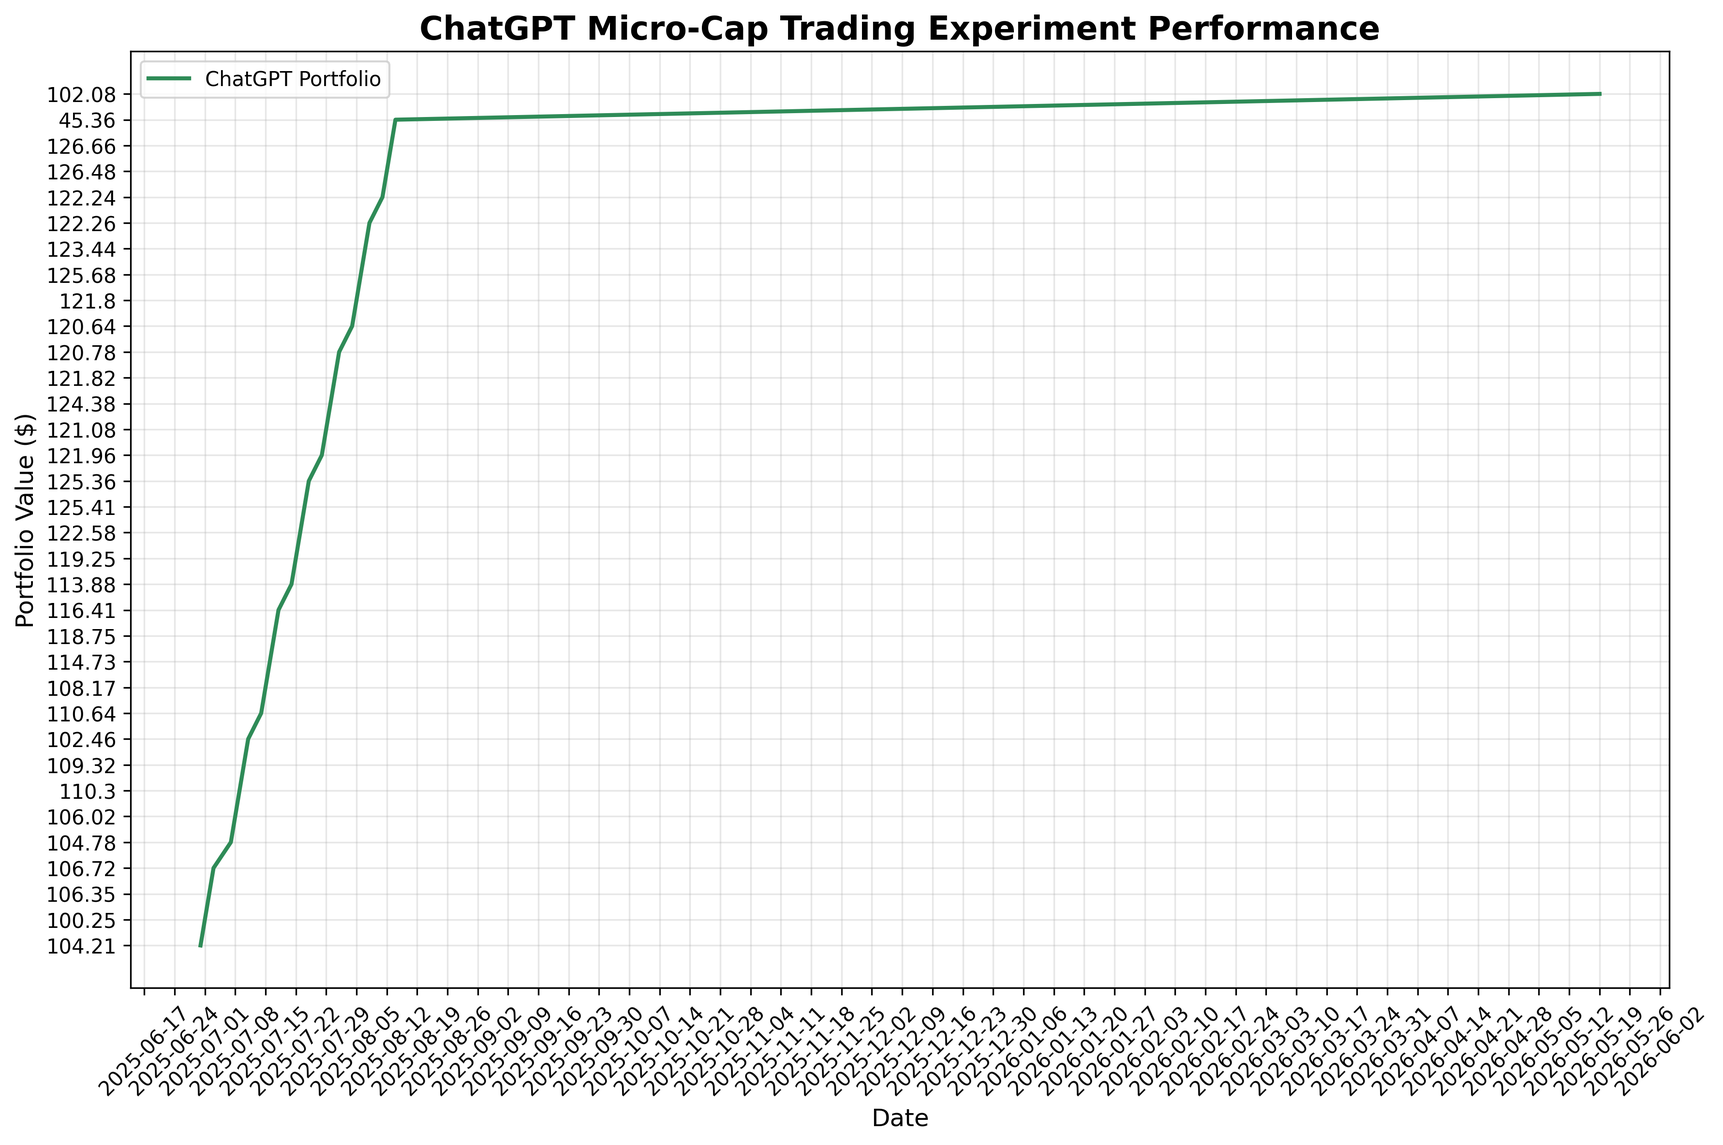
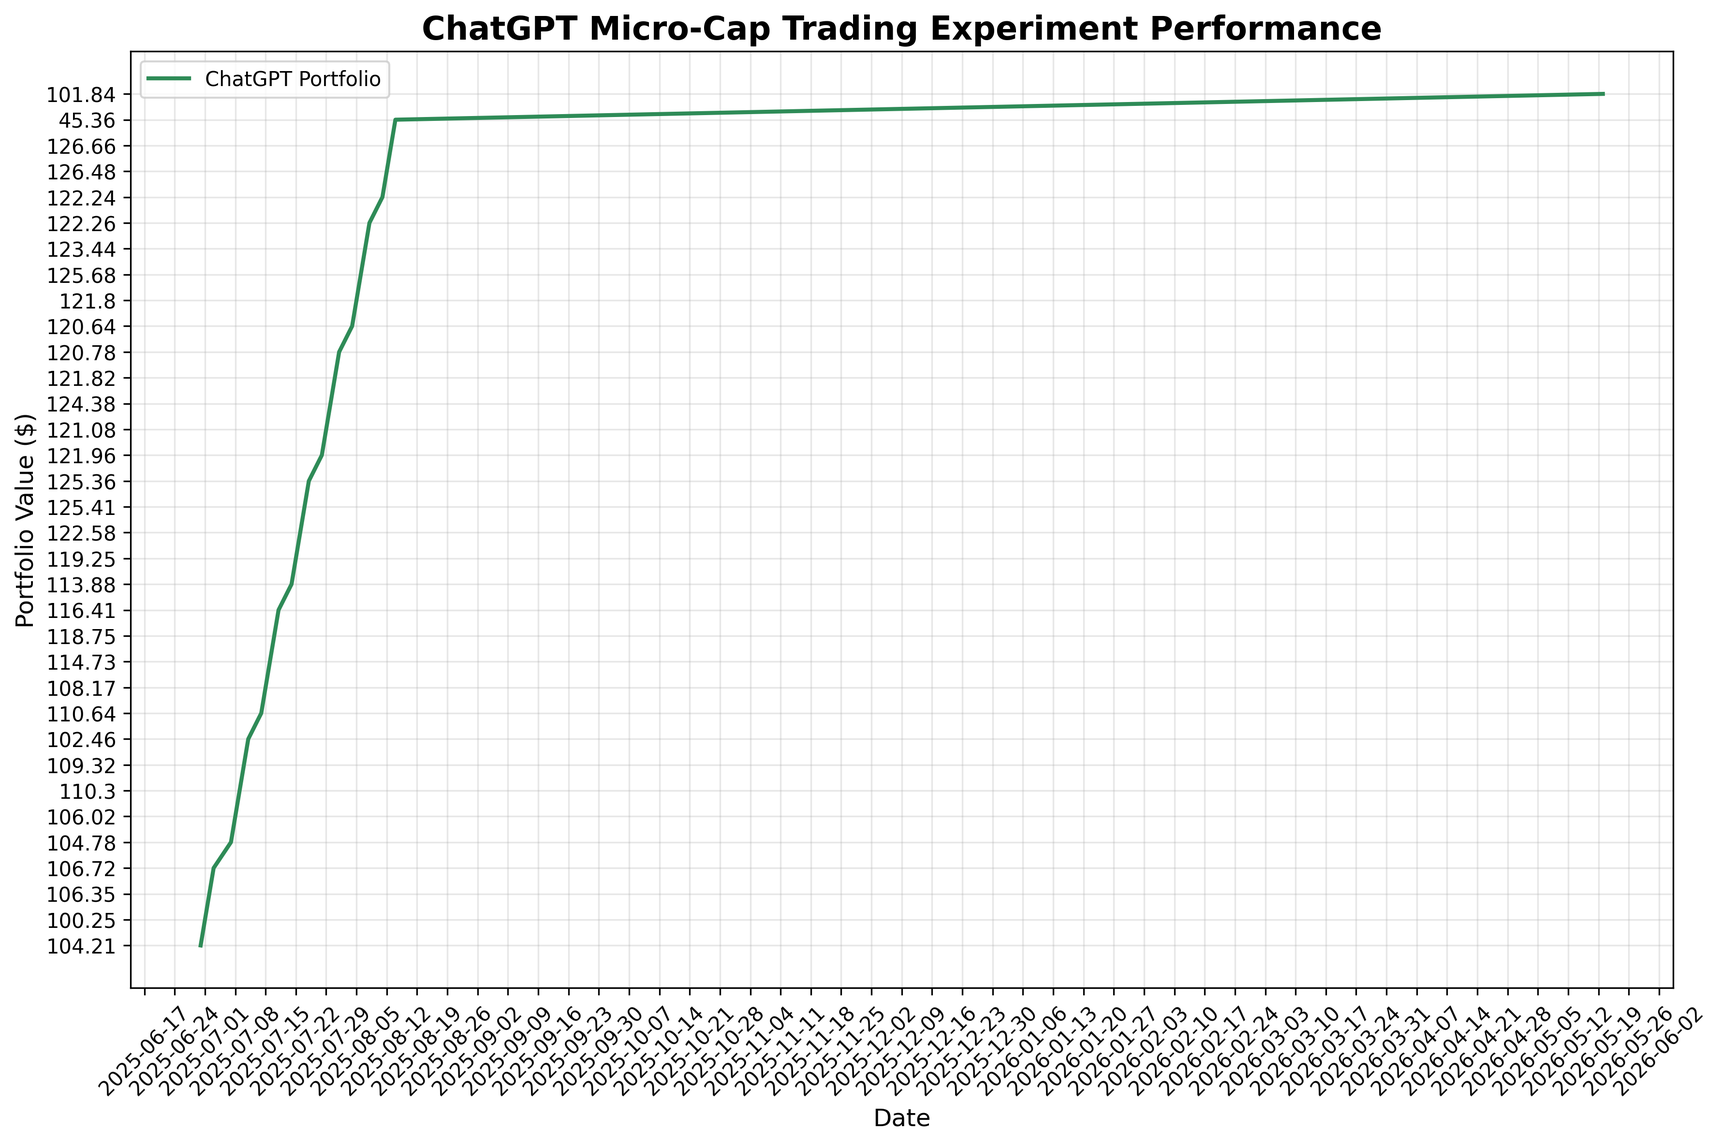
deploy: e15cad030d70fb3fbb51f9df6e22fa70c2f175c0

diff --git a/index.html b/index.html
@@ -105,7 +105,7 @@
                 <div class="stat-label">Total Trades</div>
             </div>
             <div class="stat-card">
-                <div class="stat-value" id="last-updated">2026-05-19</div>
+                <div class="stat-value" id="last-updated">2026-05-20</div>
                 <div class="stat-label">Last Updated</div>
             </div>
         </div>
@@ -160,8 +160,8 @@
     
     <script>
         // Portfolio data
-        const portfolioData = JSON.parse("[{&quot;Date&quot;: &quot;2025-08-11&quot;, &quot;Ticker&quot;: &quot;ABEO&quot;, &quot;Shares&quot;: 4.0, &quot;Buy Price&quot;: 5.77, &quot;Cost Basis&quot;: 23.08, &quot;Stop Loss&quot;: 4.9, &quot;Current Price&quot;: 6.28, &quot;Total Value&quot;: 25.12, &quot;PnL&quot;: 2.04, &quot;Action&quot;: &quot;HOLD&quot;, &quot;Cash Balance&quot;: NaN, &quot;Total Equity&quot;: NaN}, {&quot;Date&quot;: &quot;2025-08-11&quot;, &quot;Ticker&quot;: &quot;ACTU&quot;, &quot;Shares&quot;: 6.0, &quot;Buy Price&quot;: 5.75, &quot;Cost Basis&quot;: 34.5, &quot;Stop Loss&quot;: 4.89, &quot;Current Price&quot;: 8.01, &quot;Total Value&quot;: 48.06, &quot;PnL&quot;: 13.56, &quot;Action&quot;: &quot;HOLD&quot;, &quot;Cash Balance&quot;: NaN, &quot;Total Equity&quot;: NaN}, {&quot;Date&quot;: &quot;2025-08-11&quot;, &quot;Ticker&quot;: &quot;ESPR&quot;, &quot;Shares&quot;: 2.0, &quot;Buy Price&quot;: 1.91, &quot;Cost Basis&quot;: 3.82, &quot;Stop Loss&quot;: 1.6, &quot;Current Price&quot;: 1.85, &quot;Total Value&quot;: 3.7, &quot;PnL&quot;: -0.12, &quot;Action&quot;: &quot;HOLD&quot;, &quot;Cash Balance&quot;: NaN, &quot;Total Equity&quot;: NaN}, {&quot;Date&quot;: &quot;2025-08-11&quot;, &quot;Ticker&quot;: &quot;TOTAL&quot;, &quot;Shares&quot;: NaN, &quot;Buy Price&quot;: NaN, &quot;Cost Basis&quot;: NaN, &quot;Stop Loss&quot;: NaN, &quot;Current Price&quot;: NaN, &quot;Total Value&quot;: 76.88, &quot;PnL&quot;: 15.48, &quot;Action&quot;: NaN, &quot;Cash Balance&quot;: 45.36, &quot;Total Equity&quot;: &quot;122.24&quot;}, {&quot;Date&quot;: &quot;2025-08-12&quot;, &quot;Ticker&quot;: &quot;ABEO&quot;, &quot;Shares&quot;: 4.0, &quot;Buy Price&quot;: 5.77, &quot;Cost Basis&quot;: 23.08, &quot;Stop Loss&quot;: 4.9, &quot;Current Price&quot;: 6.38, &quot;Total Value&quot;: 25.52, &quot;PnL&quot;: 2.44, &quot;Action&quot;: &quot;HOLD&quot;, &quot;Cash Balance&quot;: NaN, &quot;Total Equity&quot;: NaN}, {&quot;Date&quot;: &quot;2025-08-12&quot;, &quot;Ticker&quot;: &quot;ACTU&quot;, &quot;Shares&quot;: 6.0, &quot;Buy Price&quot;: 5.75, &quot;Cost Basis&quot;: 34.5, &quot;Stop Loss&quot;: 4.89, &quot;Current Price&quot;: 8.67, &quot;Total Value&quot;: 52.02, &quot;PnL&quot;: 17.52, &quot;Action&quot;: &quot;HOLD&quot;, &quot;Cash Balance&quot;: NaN, &quot;Total Equity&quot;: NaN}, {&quot;Date&quot;: &quot;2025-08-12&quot;, &quot;Ticker&quot;: &quot;ESPR&quot;, &quot;Shares&quot;: 2.0, &quot;Buy Price&quot;: 1.91, &quot;Cost Basis&quot;: 3.82, &quot;Stop Loss&quot;: 1.6, &quot;Current Price&quot;: 1.79, &quot;Total Value&quot;: 3.58, &quot;PnL&quot;: -0.24, &quot;Action&quot;: &quot;HOLD&quot;, &quot;Cash Balance&quot;: NaN, &quot;Total Equity&quot;: NaN}, {&quot;Date&quot;: &quot;2025-08-12&quot;, &quot;Ticker&quot;: &quot;TOTAL&quot;, &quot;Shares&quot;: NaN, &quot;Buy Price&quot;: NaN, &quot;Cost Basis&quot;: NaN, &quot;Stop Loss&quot;: NaN, &quot;Current Price&quot;: NaN, &quot;Total Value&quot;: 81.12, &quot;PnL&quot;: 19.72, &quot;Action&quot;: NaN, &quot;Cash Balance&quot;: 45.36, &quot;Total Equity&quot;: &quot;126.48&quot;}, {&quot;Date&quot;: &quot;2025-08-13&quot;, &quot;Ticker&quot;: &quot;ABEO&quot;, &quot;Shares&quot;: 4.0, &quot;Buy Price&quot;: 5.77, &quot;Cost Basis&quot;: 23.08, &quot;Stop Loss&quot;: 4.9, &quot;Current Price&quot;: 6.56, &quot;Total Value&quot;: 26.24, &quot;PnL&quot;: 3.16, &quot;Action&quot;: &quot;HOLD&quot;, &quot;Cash Balance&quot;: NaN, &quot;Total Equity&quot;: NaN}, {&quot;Date&quot;: &quot;2025-08-13&quot;, &quot;Ticker&quot;: &quot;ACTU&quot;, &quot;Shares&quot;: 6.0, &quot;Buy Price&quot;: 5.75, &quot;Cost Basis&quot;: 34.5, &quot;Stop Loss&quot;: 4.89, &quot;Current Price&quot;: 8.53, &quot;Total Value&quot;: 51.18, &quot;PnL&quot;: 16.68, &quot;Action&quot;: &quot;HOLD&quot;, &quot;Cash Balance&quot;: NaN, &quot;Total Equity&quot;: NaN}, {&quot;Date&quot;: &quot;2025-08-13&quot;, &quot;Ticker&quot;: &quot;ESPR&quot;, &quot;Shares&quot;: 2.0, &quot;Buy Price&quot;: 1.91, &quot;Cost Basis&quot;: 3.82, &quot;Stop Loss&quot;: 1.6, &quot;Current Price&quot;: 1.94, &quot;Total Value&quot;: 3.88, &quot;PnL&quot;: 0.06, &quot;Action&quot;: &quot;HOLD&quot;, &quot;Cash Balance&quot;: NaN, &quot;Total Equity&quot;: NaN}, {&quot;Date&quot;: &quot;2025-08-13&quot;, &quot;Ticker&quot;: &quot;TOTAL&quot;, &quot;Shares&quot;: NaN, &quot;Buy Price&quot;: NaN, &quot;Cost Basis&quot;: NaN, &quot;Stop Loss&quot;: NaN, &quot;Current Price&quot;: NaN, &quot;Total Value&quot;: 81.3, &quot;PnL&quot;: 19.9, &quot;Action&quot;: NaN, &quot;Cash Balance&quot;: 45.36, &quot;Total Equity&quot;: &quot;126.66&quot;}, {&quot;Date&quot;: &quot;2025-08-14&quot;, &quot;Ticker&quot;: &quot;ABEO&quot;, &quot;Shares&quot;: 4.0, &quot;Buy Price&quot;: 5.77, &quot;Cost Basis&quot;: 23.08, &quot;Stop Loss&quot;: 4.9, &quot;Current Price&quot;: NaN, &quot;Total Value&quot;: NaN, &quot;PnL&quot;: NaN, &quot;Action&quot;: &quot;NO DATA&quot;, &quot;Cash Balance&quot;: NaN, &quot;Total Equity&quot;: NaN}, {&quot;Date&quot;: &quot;2025-08-14&quot;, &quot;Ticker&quot;: &quot;ACTU&quot;, &quot;Shares&quot;: 6.0, &quot;Buy Price&quot;: 5.75, &quot;Cost Basis&quot;: 34.5, &quot;Stop Loss&quot;: 4.89, &quot;Current Price&quot;: NaN, &quot;Total Value&quot;: NaN, &quot;PnL&quot;: NaN, &quot;Action&quot;: &quot;NO DATA&quot;, &quot;Cash Balance&quot;: NaN, &quot;Total Equity&quot;: NaN}, {&quot;Date&quot;: &quot;2025-08-14&quot;, &quot;Ticker&quot;: &quot;ESPR&quot;, &quot;Shares&quot;: 2.0, &quot;Buy Price&quot;: 1.91, &quot;Cost Basis&quot;: 3.82, &quot;Stop Loss&quot;: 1.6, &quot;Current Price&quot;: NaN, &quot;Total Value&quot;: NaN, &quot;PnL&quot;: NaN, &quot;Action&quot;: &quot;NO DATA&quot;, &quot;Cash Balance&quot;: NaN, &quot;Total Equity&quot;: NaN}, {&quot;Date&quot;: &quot;2025-08-14&quot;, &quot;Ticker&quot;: &quot;TOTAL&quot;, &quot;Shares&quot;: NaN, &quot;Buy Price&quot;: NaN, &quot;Cost Basis&quot;: NaN, &quot;Stop Loss&quot;: NaN, &quot;Current Price&quot;: NaN, &quot;Total Value&quot;: 0.0, &quot;PnL&quot;: 0.0, &quot;Action&quot;: NaN, &quot;Cash Balance&quot;: 45.36, &quot;Total Equity&quot;: &quot;45.36&quot;}, {&quot;Date&quot;: &quot;2026-05-19&quot;, &quot;Ticker&quot;: &quot;ABEO&quot;, &quot;Shares&quot;: 4.0, &quot;Buy Price&quot;: 5.77, &quot;Cost Basis&quot;: 23.08, &quot;Stop Loss&quot;: 4.9, &quot;Current Price&quot;: 5.28, &quot;Total Value&quot;: 21.12, &quot;PnL&quot;: -1.96, &quot;Action&quot;: &quot;HOLD&quot;, &quot;Cash Balance&quot;: NaN, &quot;Total Equity&quot;: NaN}, {&quot;Date&quot;: &quot;2026-05-19&quot;, &quot;Ticker&quot;: &quot;ACTU&quot;, &quot;Shares&quot;: 6.0, &quot;Buy Price&quot;: 5.75, &quot;Cost Basis&quot;: 34.5, &quot;Stop Loss&quot;: 4.89, &quot;Current Price&quot;: 4.89, &quot;Total Value&quot;: 29.34, &quot;PnL&quot;: -5.16, &quot;Action&quot;: &quot;SELL - Stop Loss Triggered&quot;, &quot;Cash Balance&quot;: NaN, &quot;Total Equity&quot;: NaN}, {&quot;Date&quot;: &quot;2026-05-19&quot;, &quot;Ticker&quot;: &quot;ESPR&quot;, &quot;Shares&quot;: 2.0, &quot;Buy Price&quot;: 1.91, &quot;Cost Basis&quot;: 3.82, &quot;Stop Loss&quot;: 1.6, &quot;Current Price&quot;: 3.13, &quot;Total Value&quot;: 6.26, &quot;PnL&quot;: 2.44, &quot;Action&quot;: &quot;HOLD&quot;, &quot;Cash Balance&quot;: NaN, &quot;Total Equity&quot;: NaN}, {&quot;Date&quot;: &quot;2026-05-19&quot;, &quot;Ticker&quot;: &quot;TOTAL&quot;, &quot;Shares&quot;: NaN, &quot;Buy Price&quot;: NaN, &quot;Cost Basis&quot;: NaN, &quot;Stop Loss&quot;: NaN, &quot;Current Price&quot;: NaN, &quot;Total Value&quot;: 27.38, &quot;PnL&quot;: 0.48, &quot;Action&quot;: NaN, &quot;Cash Balance&quot;: 74.7, &quot;Total Equity&quot;: &quot;102.08&quot;}]");
-        const tradeData = JSON.parse("[{&quot;Date&quot;: &quot;2025-07-08&quot;, &quot;Ticker&quot;: &quot;IINN&quot;, &quot;Shares Bought&quot;: 20.0, &quot;Buy Price&quot;: 1.5, &quot;Cost Basis&quot;: 30.0, &quot;PnL&quot;: 0.0, &quot;Reason&quot;: &quot;MANUAL BUY - New position&quot;, &quot;Shares Sold&quot;: NaN, &quot;Sell Price&quot;: NaN}, {&quot;Date&quot;: &quot;2025-07-21&quot;, &quot;Ticker&quot;: &quot;CADL&quot;, &quot;Shares Bought&quot;: NaN, &quot;Buy Price&quot;: NaN, &quot;Cost Basis&quot;: 25.2, &quot;PnL&quot;: 8.5, &quot;Reason&quot;: &quot;MANUAL SELL - GAIN CAPITAL FOR ACTU&quot;, &quot;Shares Sold&quot;: 5.0, &quot;Sell Price&quot;: 6.59}, {&quot;Date&quot;: &quot;2025-07-21&quot;, &quot;Ticker&quot;: &quot;ACTU&quot;, &quot;Shares Bought&quot;: 6.0, &quot;Buy Price&quot;: 5.75, &quot;Cost Basis&quot;: 34.5, &quot;PnL&quot;: 0.0, &quot;Reason&quot;: &quot;MANUAL BUY - New position&quot;, &quot;Shares Sold&quot;: NaN, &quot;Sell Price&quot;: NaN}, {&quot;Date&quot;: &quot;2025-07-28&quot;, &quot;Ticker&quot;: &quot;IINN&quot;, &quot;Shares Bought&quot;: NaN, &quot;Buy Price&quot;: NaN, &quot;Cost Basis&quot;: 9.0, &quot;PnL&quot;: -0.5400000000000009, &quot;Reason&quot;: &quot;MANUAL SELL - POSITION REDUCTION&quot;, &quot;Shares Sold&quot;: 6.0, &quot;Sell Price&quot;: 1.41}, {&quot;Date&quot;: &quot;2025-07-29&quot;, &quot;Ticker&quot;: &quot;AZTR&quot;, &quot;Shares Bought&quot;: NaN, &quot;Buy Price&quot;: NaN, &quot;Cost Basis&quot;: 13.75, &quot;PnL&quot;: -2.75, &quot;Reason&quot;: &quot;MANUAL SELL - DILUTION RISK&quot;, &quot;Shares Sold&quot;: 55.0, &quot;Sell Price&quot;: 0.2}, {&quot;Date&quot;: &quot;2025-08-01&quot;, &quot;Ticker&quot;: &quot;IINN&quot;, &quot;Shares Bought&quot;: 2.0, &quot;Buy Price&quot;: 1.74, &quot;Cost Basis&quot;: 3.48, &quot;PnL&quot;: 0.0, &quot;Reason&quot;: &quot;MANUAL BUY - New position&quot;, &quot;Shares Sold&quot;: NaN, &quot;Sell Price&quot;: NaN}, {&quot;Date&quot;: &quot;2025-08-01&quot;, &quot;Ticker&quot;: &quot;ABEO&quot;, &quot;Shares Bought&quot;: NaN, &quot;Buy Price&quot;: NaN, &quot;Cost Basis&quot;: 11.54, &quot;PnL&quot;: 1.200000000000001, &quot;Reason&quot;: &quot;MANUAL SELL - TRIM AFTER SUPPORT LOSS&quot;, &quot;Shares Sold&quot;: 2.0, &quot;Sell Price&quot;: 6.37}, {&quot;Date&quot;: &quot;2025-08-07&quot;, &quot;Ticker&quot;: &quot;ESPR&quot;, &quot;Shares Bought&quot;: 2.0, &quot;Buy Price&quot;: 1.91, &quot;Cost Basis&quot;: 3.82, &quot;PnL&quot;: 0.0, &quot;Reason&quot;: &quot;MANUAL BUY - New position&quot;, &quot;Shares Sold&quot;: NaN, &quot;Sell Price&quot;: NaN}, {&quot;Date&quot;: &quot;2025-08-08&quot;, &quot;Ticker&quot;: &quot;IINN&quot;, &quot;Shares Bought&quot;: NaN, &quot;Buy Price&quot;: NaN, &quot;Cost Basis&quot;: 1.5, &quot;PnL&quot;: -6.4, &quot;Reason&quot;: &quot;AUTOMATED SELL - STOPLOSS TRIGGERED&quot;, &quot;Shares Sold&quot;: 16.0, &quot;Sell Price&quot;: 1.1}, {&quot;Date&quot;: &quot;2026-05-19&quot;, &quot;Ticker&quot;: &quot;ACTU&quot;, &quot;Shares Bought&quot;: NaN, &quot;Buy Price&quot;: NaN, &quot;Cost Basis&quot;: 5.75, &quot;PnL&quot;: -5.16, &quot;Reason&quot;: &quot;AUTOMATED SELL - STOPLOSS TRIGGERED&quot;, &quot;Shares Sold&quot;: 6.0, &quot;Sell Price&quot;: 4.89}]");
+        const portfolioData = JSON.parse("[{&quot;Date&quot;: &quot;2025-08-11&quot;, &quot;Ticker&quot;: &quot;ABEO&quot;, &quot;Shares&quot;: 4.0, &quot;Buy Price&quot;: 5.77, &quot;Cost Basis&quot;: 23.08, &quot;Stop Loss&quot;: 4.9, &quot;Current Price&quot;: 6.28, &quot;Total Value&quot;: 25.12, &quot;PnL&quot;: 2.04, &quot;Action&quot;: &quot;HOLD&quot;, &quot;Cash Balance&quot;: NaN, &quot;Total Equity&quot;: NaN}, {&quot;Date&quot;: &quot;2025-08-11&quot;, &quot;Ticker&quot;: &quot;ACTU&quot;, &quot;Shares&quot;: 6.0, &quot;Buy Price&quot;: 5.75, &quot;Cost Basis&quot;: 34.5, &quot;Stop Loss&quot;: 4.89, &quot;Current Price&quot;: 8.01, &quot;Total Value&quot;: 48.06, &quot;PnL&quot;: 13.56, &quot;Action&quot;: &quot;HOLD&quot;, &quot;Cash Balance&quot;: NaN, &quot;Total Equity&quot;: NaN}, {&quot;Date&quot;: &quot;2025-08-11&quot;, &quot;Ticker&quot;: &quot;ESPR&quot;, &quot;Shares&quot;: 2.0, &quot;Buy Price&quot;: 1.91, &quot;Cost Basis&quot;: 3.82, &quot;Stop Loss&quot;: 1.6, &quot;Current Price&quot;: 1.85, &quot;Total Value&quot;: 3.7, &quot;PnL&quot;: -0.12, &quot;Action&quot;: &quot;HOLD&quot;, &quot;Cash Balance&quot;: NaN, &quot;Total Equity&quot;: NaN}, {&quot;Date&quot;: &quot;2025-08-11&quot;, &quot;Ticker&quot;: &quot;TOTAL&quot;, &quot;Shares&quot;: NaN, &quot;Buy Price&quot;: NaN, &quot;Cost Basis&quot;: NaN, &quot;Stop Loss&quot;: NaN, &quot;Current Price&quot;: NaN, &quot;Total Value&quot;: 76.88, &quot;PnL&quot;: 15.48, &quot;Action&quot;: NaN, &quot;Cash Balance&quot;: 45.36, &quot;Total Equity&quot;: &quot;122.24&quot;}, {&quot;Date&quot;: &quot;2025-08-12&quot;, &quot;Ticker&quot;: &quot;ABEO&quot;, &quot;Shares&quot;: 4.0, &quot;Buy Price&quot;: 5.77, &quot;Cost Basis&quot;: 23.08, &quot;Stop Loss&quot;: 4.9, &quot;Current Price&quot;: 6.38, &quot;Total Value&quot;: 25.52, &quot;PnL&quot;: 2.44, &quot;Action&quot;: &quot;HOLD&quot;, &quot;Cash Balance&quot;: NaN, &quot;Total Equity&quot;: NaN}, {&quot;Date&quot;: &quot;2025-08-12&quot;, &quot;Ticker&quot;: &quot;ACTU&quot;, &quot;Shares&quot;: 6.0, &quot;Buy Price&quot;: 5.75, &quot;Cost Basis&quot;: 34.5, &quot;Stop Loss&quot;: 4.89, &quot;Current Price&quot;: 8.67, &quot;Total Value&quot;: 52.02, &quot;PnL&quot;: 17.52, &quot;Action&quot;: &quot;HOLD&quot;, &quot;Cash Balance&quot;: NaN, &quot;Total Equity&quot;: NaN}, {&quot;Date&quot;: &quot;2025-08-12&quot;, &quot;Ticker&quot;: &quot;ESPR&quot;, &quot;Shares&quot;: 2.0, &quot;Buy Price&quot;: 1.91, &quot;Cost Basis&quot;: 3.82, &quot;Stop Loss&quot;: 1.6, &quot;Current Price&quot;: 1.79, &quot;Total Value&quot;: 3.58, &quot;PnL&quot;: -0.24, &quot;Action&quot;: &quot;HOLD&quot;, &quot;Cash Balance&quot;: NaN, &quot;Total Equity&quot;: NaN}, {&quot;Date&quot;: &quot;2025-08-12&quot;, &quot;Ticker&quot;: &quot;TOTAL&quot;, &quot;Shares&quot;: NaN, &quot;Buy Price&quot;: NaN, &quot;Cost Basis&quot;: NaN, &quot;Stop Loss&quot;: NaN, &quot;Current Price&quot;: NaN, &quot;Total Value&quot;: 81.12, &quot;PnL&quot;: 19.72, &quot;Action&quot;: NaN, &quot;Cash Balance&quot;: 45.36, &quot;Total Equity&quot;: &quot;126.48&quot;}, {&quot;Date&quot;: &quot;2025-08-13&quot;, &quot;Ticker&quot;: &quot;ABEO&quot;, &quot;Shares&quot;: 4.0, &quot;Buy Price&quot;: 5.77, &quot;Cost Basis&quot;: 23.08, &quot;Stop Loss&quot;: 4.9, &quot;Current Price&quot;: 6.56, &quot;Total Value&quot;: 26.24, &quot;PnL&quot;: 3.16, &quot;Action&quot;: &quot;HOLD&quot;, &quot;Cash Balance&quot;: NaN, &quot;Total Equity&quot;: NaN}, {&quot;Date&quot;: &quot;2025-08-13&quot;, &quot;Ticker&quot;: &quot;ACTU&quot;, &quot;Shares&quot;: 6.0, &quot;Buy Price&quot;: 5.75, &quot;Cost Basis&quot;: 34.5, &quot;Stop Loss&quot;: 4.89, &quot;Current Price&quot;: 8.53, &quot;Total Value&quot;: 51.18, &quot;PnL&quot;: 16.68, &quot;Action&quot;: &quot;HOLD&quot;, &quot;Cash Balance&quot;: NaN, &quot;Total Equity&quot;: NaN}, {&quot;Date&quot;: &quot;2025-08-13&quot;, &quot;Ticker&quot;: &quot;ESPR&quot;, &quot;Shares&quot;: 2.0, &quot;Buy Price&quot;: 1.91, &quot;Cost Basis&quot;: 3.82, &quot;Stop Loss&quot;: 1.6, &quot;Current Price&quot;: 1.94, &quot;Total Value&quot;: 3.88, &quot;PnL&quot;: 0.06, &quot;Action&quot;: &quot;HOLD&quot;, &quot;Cash Balance&quot;: NaN, &quot;Total Equity&quot;: NaN}, {&quot;Date&quot;: &quot;2025-08-13&quot;, &quot;Ticker&quot;: &quot;TOTAL&quot;, &quot;Shares&quot;: NaN, &quot;Buy Price&quot;: NaN, &quot;Cost Basis&quot;: NaN, &quot;Stop Loss&quot;: NaN, &quot;Current Price&quot;: NaN, &quot;Total Value&quot;: 81.3, &quot;PnL&quot;: 19.9, &quot;Action&quot;: NaN, &quot;Cash Balance&quot;: 45.36, &quot;Total Equity&quot;: &quot;126.66&quot;}, {&quot;Date&quot;: &quot;2025-08-14&quot;, &quot;Ticker&quot;: &quot;ABEO&quot;, &quot;Shares&quot;: 4.0, &quot;Buy Price&quot;: 5.77, &quot;Cost Basis&quot;: 23.08, &quot;Stop Loss&quot;: 4.9, &quot;Current Price&quot;: NaN, &quot;Total Value&quot;: NaN, &quot;PnL&quot;: NaN, &quot;Action&quot;: &quot;NO DATA&quot;, &quot;Cash Balance&quot;: NaN, &quot;Total Equity&quot;: NaN}, {&quot;Date&quot;: &quot;2025-08-14&quot;, &quot;Ticker&quot;: &quot;ACTU&quot;, &quot;Shares&quot;: 6.0, &quot;Buy Price&quot;: 5.75, &quot;Cost Basis&quot;: 34.5, &quot;Stop Loss&quot;: 4.89, &quot;Current Price&quot;: NaN, &quot;Total Value&quot;: NaN, &quot;PnL&quot;: NaN, &quot;Action&quot;: &quot;NO DATA&quot;, &quot;Cash Balance&quot;: NaN, &quot;Total Equity&quot;: NaN}, {&quot;Date&quot;: &quot;2025-08-14&quot;, &quot;Ticker&quot;: &quot;ESPR&quot;, &quot;Shares&quot;: 2.0, &quot;Buy Price&quot;: 1.91, &quot;Cost Basis&quot;: 3.82, &quot;Stop Loss&quot;: 1.6, &quot;Current Price&quot;: NaN, &quot;Total Value&quot;: NaN, &quot;PnL&quot;: NaN, &quot;Action&quot;: &quot;NO DATA&quot;, &quot;Cash Balance&quot;: NaN, &quot;Total Equity&quot;: NaN}, {&quot;Date&quot;: &quot;2025-08-14&quot;, &quot;Ticker&quot;: &quot;TOTAL&quot;, &quot;Shares&quot;: NaN, &quot;Buy Price&quot;: NaN, &quot;Cost Basis&quot;: NaN, &quot;Stop Loss&quot;: NaN, &quot;Current Price&quot;: NaN, &quot;Total Value&quot;: 0.0, &quot;PnL&quot;: 0.0, &quot;Action&quot;: NaN, &quot;Cash Balance&quot;: 45.36, &quot;Total Equity&quot;: &quot;45.36&quot;}, {&quot;Date&quot;: &quot;2026-05-20&quot;, &quot;Ticker&quot;: &quot;ABEO&quot;, &quot;Shares&quot;: 4.0, &quot;Buy Price&quot;: 5.77, &quot;Cost Basis&quot;: 23.08, &quot;Stop Loss&quot;: 4.9, &quot;Current Price&quot;: 5.22, &quot;Total Value&quot;: 20.88, &quot;PnL&quot;: -2.2, &quot;Action&quot;: &quot;HOLD&quot;, &quot;Cash Balance&quot;: NaN, &quot;Total Equity&quot;: NaN}, {&quot;Date&quot;: &quot;2026-05-20&quot;, &quot;Ticker&quot;: &quot;ACTU&quot;, &quot;Shares&quot;: 6.0, &quot;Buy Price&quot;: 5.75, &quot;Cost Basis&quot;: 34.5, &quot;Stop Loss&quot;: 4.89, &quot;Current Price&quot;: 4.89, &quot;Total Value&quot;: 29.34, &quot;PnL&quot;: -5.16, &quot;Action&quot;: &quot;SELL - Stop Loss Triggered&quot;, &quot;Cash Balance&quot;: NaN, &quot;Total Equity&quot;: NaN}, {&quot;Date&quot;: &quot;2026-05-20&quot;, &quot;Ticker&quot;: &quot;ESPR&quot;, &quot;Shares&quot;: 2.0, &quot;Buy Price&quot;: 1.91, &quot;Cost Basis&quot;: 3.82, &quot;Stop Loss&quot;: 1.6, &quot;Current Price&quot;: 3.13, &quot;Total Value&quot;: 6.26, &quot;PnL&quot;: 2.44, &quot;Action&quot;: &quot;HOLD&quot;, &quot;Cash Balance&quot;: NaN, &quot;Total Equity&quot;: NaN}, {&quot;Date&quot;: &quot;2026-05-20&quot;, &quot;Ticker&quot;: &quot;TOTAL&quot;, &quot;Shares&quot;: NaN, &quot;Buy Price&quot;: NaN, &quot;Cost Basis&quot;: NaN, &quot;Stop Loss&quot;: NaN, &quot;Current Price&quot;: NaN, &quot;Total Value&quot;: 27.14, &quot;PnL&quot;: 0.24, &quot;Action&quot;: NaN, &quot;Cash Balance&quot;: 74.7, &quot;Total Equity&quot;: &quot;101.84&quot;}]");
+        const tradeData = JSON.parse("[{&quot;Date&quot;: &quot;2025-07-08&quot;, &quot;Ticker&quot;: &quot;IINN&quot;, &quot;Shares Bought&quot;: 20.0, &quot;Buy Price&quot;: 1.5, &quot;Cost Basis&quot;: 30.0, &quot;PnL&quot;: 0.0, &quot;Reason&quot;: &quot;MANUAL BUY - New position&quot;, &quot;Shares Sold&quot;: NaN, &quot;Sell Price&quot;: NaN}, {&quot;Date&quot;: &quot;2025-07-21&quot;, &quot;Ticker&quot;: &quot;CADL&quot;, &quot;Shares Bought&quot;: NaN, &quot;Buy Price&quot;: NaN, &quot;Cost Basis&quot;: 25.2, &quot;PnL&quot;: 8.5, &quot;Reason&quot;: &quot;MANUAL SELL - GAIN CAPITAL FOR ACTU&quot;, &quot;Shares Sold&quot;: 5.0, &quot;Sell Price&quot;: 6.59}, {&quot;Date&quot;: &quot;2025-07-21&quot;, &quot;Ticker&quot;: &quot;ACTU&quot;, &quot;Shares Bought&quot;: 6.0, &quot;Buy Price&quot;: 5.75, &quot;Cost Basis&quot;: 34.5, &quot;PnL&quot;: 0.0, &quot;Reason&quot;: &quot;MANUAL BUY - New position&quot;, &quot;Shares Sold&quot;: NaN, &quot;Sell Price&quot;: NaN}, {&quot;Date&quot;: &quot;2025-07-28&quot;, &quot;Ticker&quot;: &quot;IINN&quot;, &quot;Shares Bought&quot;: NaN, &quot;Buy Price&quot;: NaN, &quot;Cost Basis&quot;: 9.0, &quot;PnL&quot;: -0.5400000000000009, &quot;Reason&quot;: &quot;MANUAL SELL - POSITION REDUCTION&quot;, &quot;Shares Sold&quot;: 6.0, &quot;Sell Price&quot;: 1.41}, {&quot;Date&quot;: &quot;2025-07-29&quot;, &quot;Ticker&quot;: &quot;AZTR&quot;, &quot;Shares Bought&quot;: NaN, &quot;Buy Price&quot;: NaN, &quot;Cost Basis&quot;: 13.75, &quot;PnL&quot;: -2.75, &quot;Reason&quot;: &quot;MANUAL SELL - DILUTION RISK&quot;, &quot;Shares Sold&quot;: 55.0, &quot;Sell Price&quot;: 0.2}, {&quot;Date&quot;: &quot;2025-08-01&quot;, &quot;Ticker&quot;: &quot;IINN&quot;, &quot;Shares Bought&quot;: 2.0, &quot;Buy Price&quot;: 1.74, &quot;Cost Basis&quot;: 3.48, &quot;PnL&quot;: 0.0, &quot;Reason&quot;: &quot;MANUAL BUY - New position&quot;, &quot;Shares Sold&quot;: NaN, &quot;Sell Price&quot;: NaN}, {&quot;Date&quot;: &quot;2025-08-01&quot;, &quot;Ticker&quot;: &quot;ABEO&quot;, &quot;Shares Bought&quot;: NaN, &quot;Buy Price&quot;: NaN, &quot;Cost Basis&quot;: 11.54, &quot;PnL&quot;: 1.200000000000001, &quot;Reason&quot;: &quot;MANUAL SELL - TRIM AFTER SUPPORT LOSS&quot;, &quot;Shares Sold&quot;: 2.0, &quot;Sell Price&quot;: 6.37}, {&quot;Date&quot;: &quot;2025-08-07&quot;, &quot;Ticker&quot;: &quot;ESPR&quot;, &quot;Shares Bought&quot;: 2.0, &quot;Buy Price&quot;: 1.91, &quot;Cost Basis&quot;: 3.82, &quot;PnL&quot;: 0.0, &quot;Reason&quot;: &quot;MANUAL BUY - New position&quot;, &quot;Shares Sold&quot;: NaN, &quot;Sell Price&quot;: NaN}, {&quot;Date&quot;: &quot;2025-08-08&quot;, &quot;Ticker&quot;: &quot;IINN&quot;, &quot;Shares Bought&quot;: NaN, &quot;Buy Price&quot;: NaN, &quot;Cost Basis&quot;: 1.5, &quot;PnL&quot;: -6.4, &quot;Reason&quot;: &quot;AUTOMATED SELL - STOPLOSS TRIGGERED&quot;, &quot;Shares Sold&quot;: 16.0, &quot;Sell Price&quot;: 1.1}, {&quot;Date&quot;: &quot;2026-05-20&quot;, &quot;Ticker&quot;: &quot;ACTU&quot;, &quot;Shares Bought&quot;: NaN, &quot;Buy Price&quot;: NaN, &quot;Cost Basis&quot;: 5.75, &quot;PnL&quot;: -5.16, &quot;Reason&quot;: &quot;AUTOMATED SELL - STOPLOSS TRIGGERED&quot;, &quot;Shares Sold&quot;: 6.0, &quot;Sell Price&quot;: 4.89}]");
         
         // Update total equity
         if (portfolioData.length > 0) {
